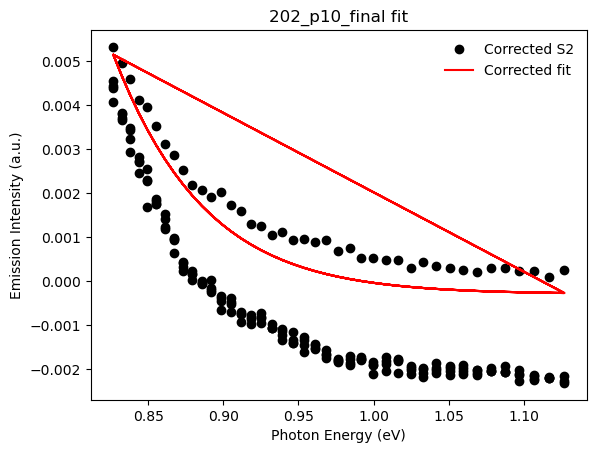
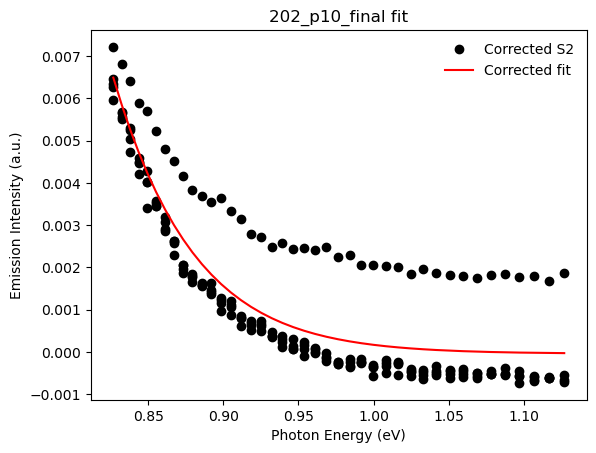
Fixed horizontal line in fit

diff --git a/test_v3.py b/test_v3.py
@@ -65,6 +65,7 @@ def guess_check(xdata, ydata, label1, label2, plot_title, bandE):
     def second_pass(E, a, b, c): 
         return a + c  * E * np.sqrt(E-bandE) * np.exp(-E*b) 
 
+
     # Curve fit range and weight:
     E = np.linspace(np.min(xdata), np.max(xdata), len(xdata))
     weight_func = np.exp(-E*12)
@@ -276,6 +277,7 @@ for files in data_list:
             new_df['dE_Conv S2c'] =  new_df[col[2]] * new_df[col[1]] / scale
             new_df['dE_Conv S2'] = new_df[col[4]] * new_df[col[1]] / scale
 
+        new_df = new_df.sort_values('Wavelength') # Sorting x values to prevent straight lines
         # Applying curve fit function 
         # DC-offset Correction 
         dc_guessb, dc_guessc, dc_fita, dc_fitb, dc_fitc, fig = guess_check(new_df['Photon Energy'], new_df['S2c'], 'S2c', 'S2c fit', components[0] + '_' + components[1] + '_' +'DC-Offset Fit', bandE)
